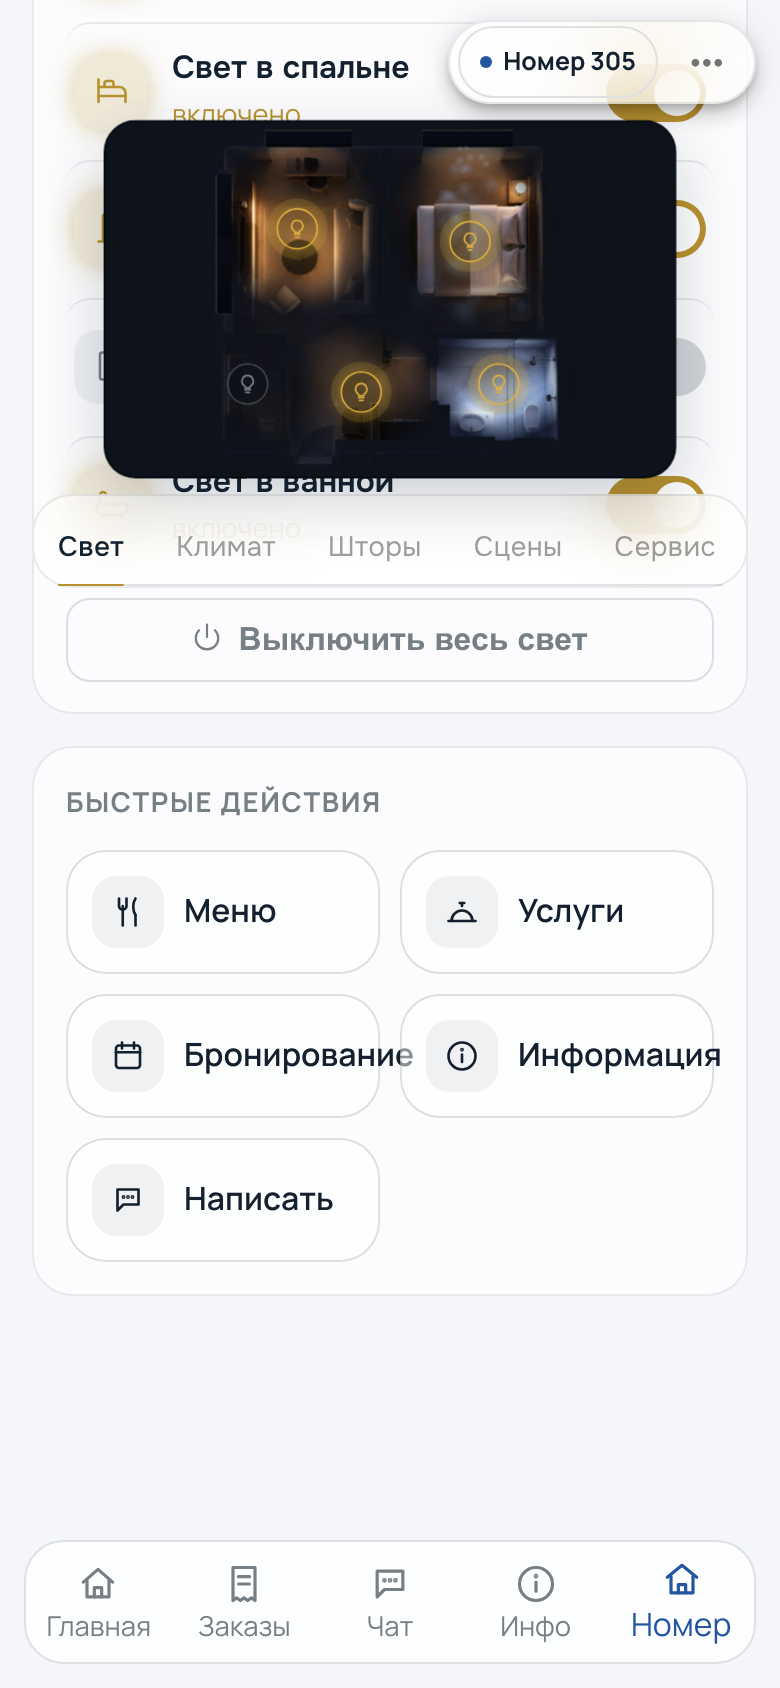
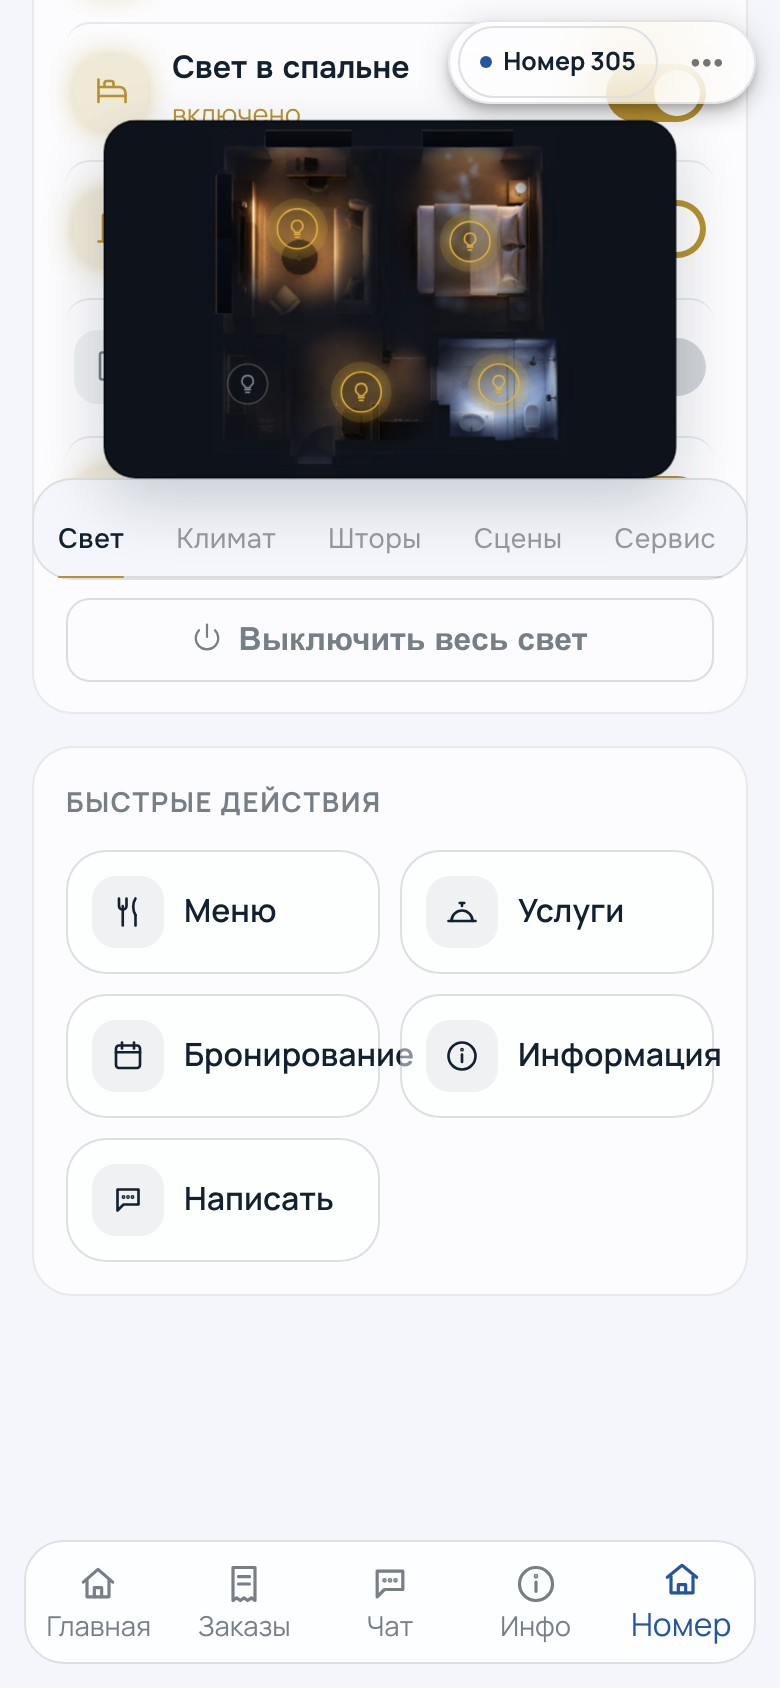
fix(guest): липкие полосы держат содержимое, а не просвечивают
Стек считал позиции верно, но полосы оставались стеклянными, и под ними ехал
СПИСОК: сорок процентов чужого текста проступали сквозь названия вкладок, а в
воздух между плитой и вкладками заглядывали строки. Технически всё было на
своих местах, а выглядело ровно как «всё наезжает друг на друга».

Полоса вкладок получила плотный фон вместо стекла — единственное такое место
на витрине, и по делу: стекло красиво над фотографией, а не над списком.
Воздух под плитой отдан этой же полосе: щель между двумя липкими слоями
закрывается тем же движением, каким создаётся. Плите добавлен фон без единого
лишнего пикселя высоты — иначе в её скруглённые углы заглядывают проезжающие
строки, а лишняя высота разошлась бы с измеренной полосой.

Changed region(s): [[0.0615, 0.2773, 0.9231, 0.3697], [0.5846, 0.0924, 0.6154, 0.1232]]

diff --git a/frontend/src/guest/pages/RoomPage.tsx b/frontend/src/guest/pages/RoomPage.tsx
@@ -94,7 +94,6 @@ import type {
  */
 export function RoomPage() {
   const { t } = useTranslation();
-  const { glass } = useStorefront();
   const { session, hotel } = useGuestSession();
   const enabled = Boolean(hotel?.room_control_enabled ?? session?.hotel.room_control_enabled);
 
@@ -182,7 +181,13 @@ export function RoomPage() {
     считается масштаб (см. эффект ниже).
   */
   const plateLayer = useStickyLayer<HTMLDivElement>(STICKY.plate, {
-    gap: 8,
+    /*
+      Воздуха под плитой НЕТ — его добавляет собственным полем следующий слой.
+      Щель между двумя липкими слоями прозрачна, и в неё на прокрутке
+      заглядывают строки списка; отдать её слою с плотным фоном — значит
+      закрыть её тем же движением, каким она создаётся.
+    */
+    gap: 0,
     enabled: !isDesktop,
     // Полоса плиты — её ВИДИМЫЙ размер: измеренная высота × масштаб сжатия.
     scale: planScale,
@@ -432,6 +437,7 @@ export function RoomPage() {
                 width: '100%',
                 maxWidth: `${layout.planMaxNarrow}px`,
                 mx: 'auto',
+
               }}
             >
               {/* Внутренняя обёртка — ЛИПКИЙ ЭЛЕМЕНТ стека: её видимый размер
@@ -460,11 +466,24 @@ export function RoomPage() {
                 // Строка вкладок живёт В БЛОКЕ, а не висит голой на фоне: на
                 // соседних экранах витрины строка категорий тоже лежит на
                 // скруглённой панели, и голая полоса выбивалась из общего
-                // языка. Радиус и стекло — те же, что у панелей разделов.
+                // языка.
                 px: 1.5,
-                pt: 0.5,
+                // Воздух между плитой и вкладками живёт ЗДЕСЬ, на плотном фоне.
+                pt: 1,
                 borderRadius: (theme) => surfaceRadius.panel(theme.palette.brand.radius),
-                ...glass.panel,
+                /*
+                  ПЛОТНЫЙ ФОН, а не стекло, и это единственное место витрины,
+                  где так.
+
+                  Под липкой строкой вкладок едет список из строк с крупным
+                  текстом и тумблерами. На стекле (даже плотном, .6 с блюром)
+                  сорок процентов чужого текста проступают сквозь названия
+                  вкладок — ровно то «всё наезжает друг на друга», с которого
+                  начался этот прогон. Стекло красиво над фотографией, а не над
+                  списком.
+                */
+                bgcolor: 'background.default',
+                border: (theme) => `1px solid ${theme.palette.divider}`,
               }}
             >
               <RoomTabs
